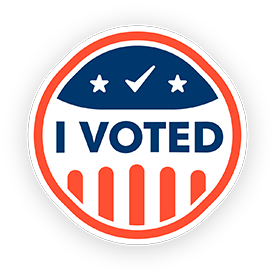
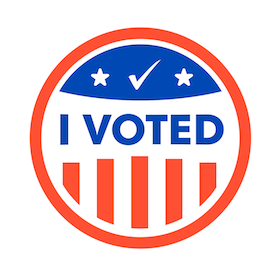
update badges, add confetti to I Voted frame

diff --git a/app.py b/app.py
@@ -141,10 +141,10 @@ def report():
     page_type = get_page_type_from_request()
 
     if page_type == 'VOTED':
-        img_overlay_file = "images/badge_with_frame.png"
+        img_overlay_file = "images/frame_badge_confetti.png"
         tweet_string = 'I voted!'
     else:
-        img_overlay_file = "images/voter_badge_with_frame.png"
+        img_overlay_file = "images/frame_badge_voter.png"
         tweet_string = 'I\'m voting!'
 
     foreground = Image.open(img_overlay_file)
@@ -229,9 +229,9 @@ def get_page_type_from_request():
 
 def get_facebook_image():
     if "selfie" in request.url:
-        return os.environ.get('SITE_URL')+'/static/images/share_img_voter.jpg'
+        return os.environ.get('SITE_URL')+'/static/images/share_img_voter.png'
     else:
-        return os.environ.get('SITE_URL')+'/static/images/share_img2.jpg'
+        return os.environ.get('SITE_URL')+'/static/images/share_img_ivoted.png'
 
 if __name__ == '__main__':
     if app.config['DEBUG'] == True:
